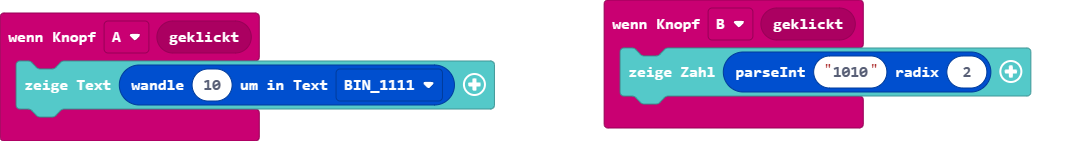
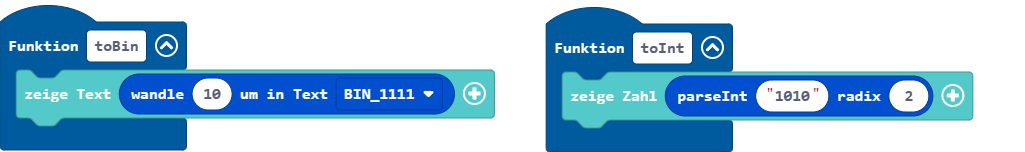
Aktualisiere main.blocks, main.ts, bit.ts

diff --git a/main.ts b/main.ts
@@ -1,6 +1,6 @@
-input.onButtonEvent(Button.A, input.buttonEventClick(), function () {
-    basic.showString(bit.formatNumber(10, bit.eLength.BIN_1111))
-})
-input.onButtonEvent(Button.B, input.buttonEventClick(), function () {
+function toInt () {
     basic.showNumber(bit.parseint("1010", 2))
-})
+}
+function toBin () {
+    basic.showString(bit.formatNumber(10, bit.eLength.BIN_1111))
+}

diff --git a/bit.ts b/bit.ts
@@ -1,7 +1,7 @@
 
-//% color=#004FCF icon="\uf120" block="BIT" weight=22
+//% color=#004FCF icon="\uf120" block="BIT" weight=23
 namespace bit
-/* 230804
+/* 230805
 Calliope zusätzliche Blöcke zur Formatierung von Text und Zahlen, Logik
 keine Erweiterung für Hardware
 
